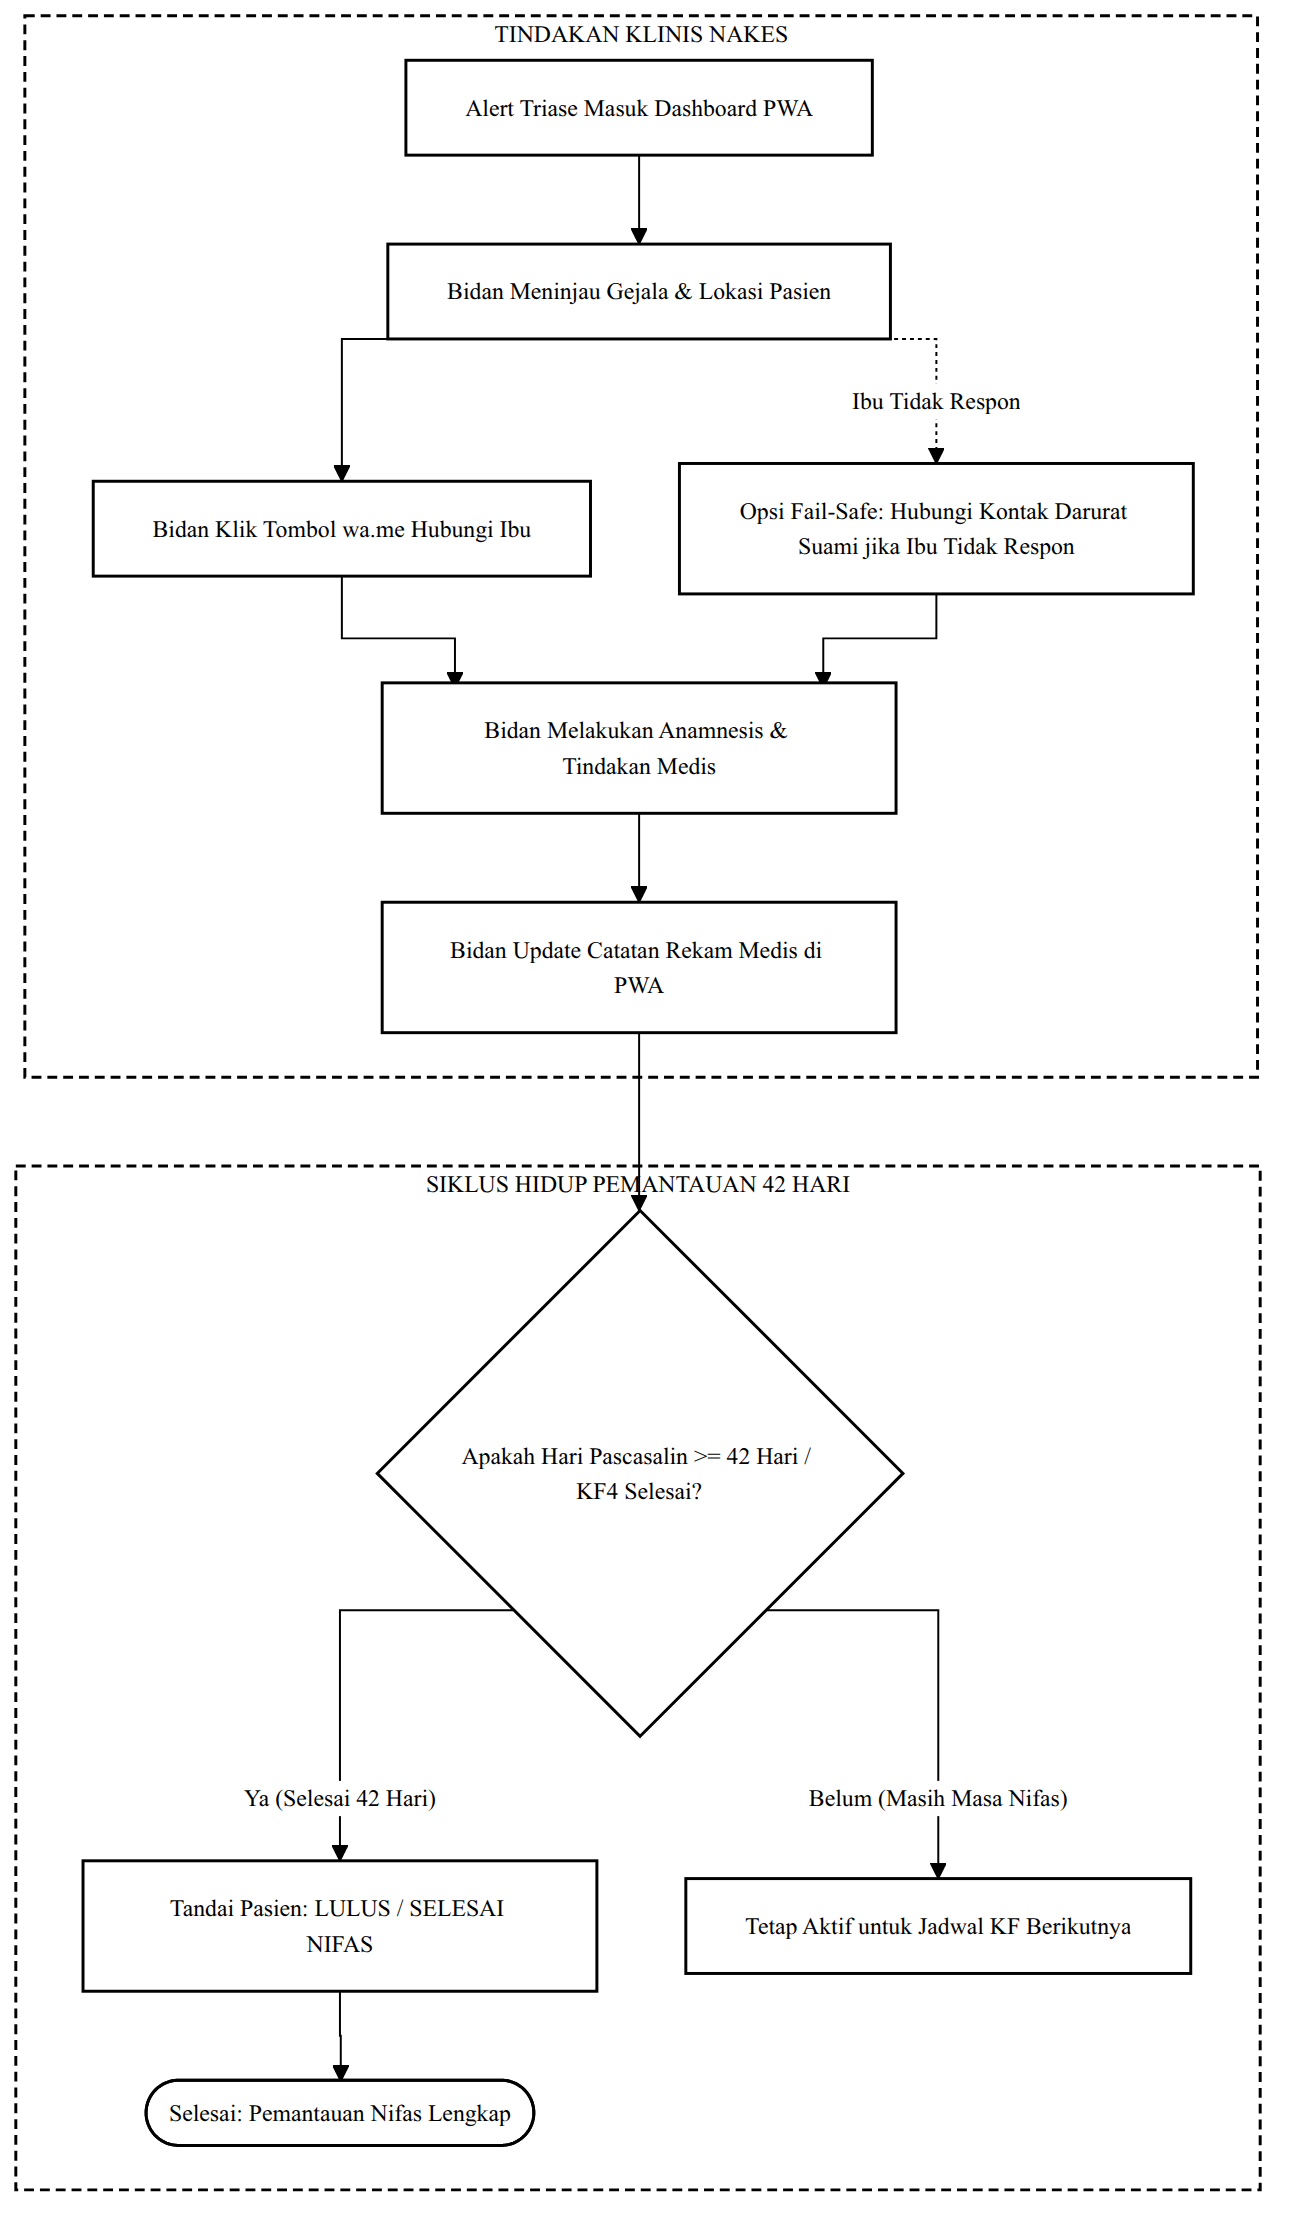
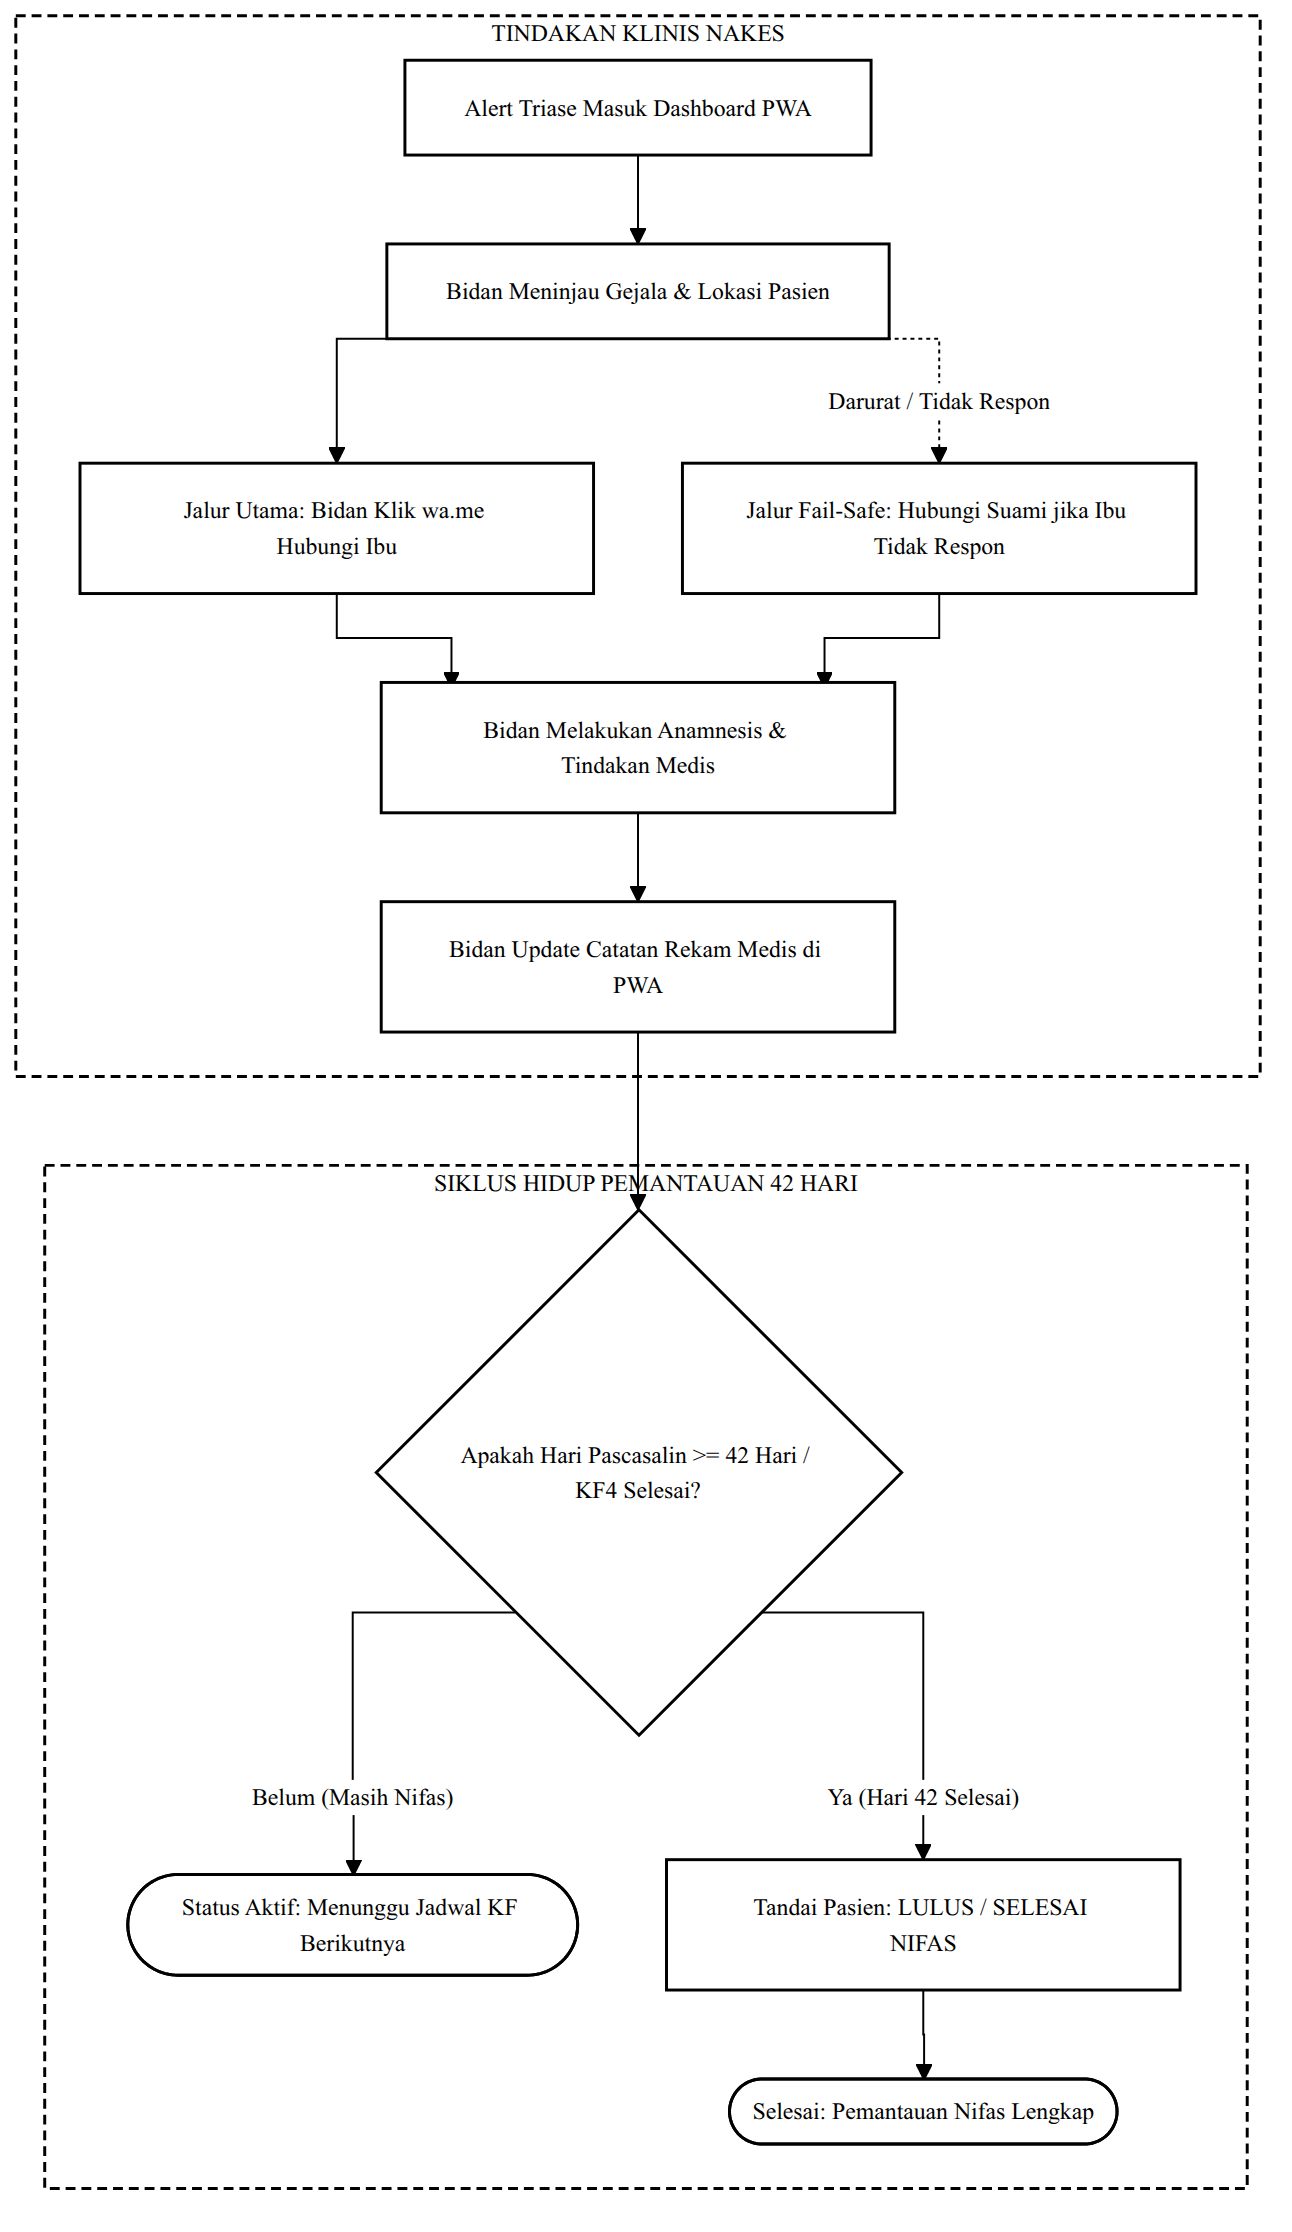
feat(docs): update flowcharts for symmetry and minimal turns

diff --git a/tools/report_docs/render_charts.py b/tools/report_docs/render_charts.py
@@ -79,7 +79,7 @@ flowchart TD
         F{"Apakah Ada Jadwal KF Hari Ini?"}
         G[Ambil Data Pasien Jatuh Tempo]
         H[Siapkan Template Pesan Skrining KF]
-        I[Tunggu Jadwal Hari Berikutnya]
+        I([Standby: Menunggu Jadwal Hari Berikutnya])
     end
 
     A --> B
@@ -87,10 +87,9 @@ flowchart TD
     C --> D
     D --> E
     E --> F
-    F -- "Tidak" --> I
-    I --> E
     F -- "Ya" --> G
     G --> H
+    F -- "Tidak" --> I
 """,
     "flowchart_2_triage": """%%{init: {"flowchart": {"curve": "stepAfter", "htmlLabels": true}} }%%
 flowchart TD
@@ -103,14 +102,13 @@ flowchart TD
 
     subgraph TRIASE ["EVALUASI TRIASE & LOGIKA MEDIS"]
         M[Ekstraksi Jawaban Skrining Ibu]
-        N{"Apakah Ditemukan Tanda Bahaya / Keluhan?"}
-        O[Tetapkan Status HIJAU: Normal / Aman]
-        P[Kirim Pesan Edukasi Perawatan Nifas & ASI]
-        Q{"Tingkat Keparahan Keluhan?"}
-        R[Tetapkan Status KUNING: Perlu Evaluasi]
-        S[Tetapkan Status MERAH: Bahaya Akut]
-        T[/Kirim Pesan Darurat & Kontak Bidan PJ ke WA Ibu/]
-        U[/Kirim Alert Prioritas ke Dashboard PWA Bidan/]
+        N{"Hasil Skrining Gejala Sesuai Buku KIA?"}
+        O[Status HIJAU: Normal / Aman]
+        P[/Kirim Pesan Edukasi Perawatan Nifas & ASI/]
+        R[Status KUNING: Keluhan Sedang]
+        U1[/Kirim Kontak Bidan PJ & Alert Pantauan ke PWA/]
+        S[Status MERAH: Bahaya Akut]
+        U2[/Kirim Pesan Darurat & Alert Prioritas Merah/]
     end
 
     H --> J
@@ -118,42 +116,44 @@ flowchart TD
     K --> L
     L --> M
     M --> N
-    N -- "Tidak Ada Keluhan" --> O
+
+    N -- "Normal" --> O
     O --> P
-    N -- "Ada Keluhan" --> Q
-    Q -- "Keluhan Ringan/Sedang" --> R
-    Q -- "Gejala Bahaya / Red Flag" --> S
-    R --> T
-    S --> T
-    T --> U
+
+    N -- "Waspada" --> R
+    R --> U1
+
+    N -- "Bahaya" --> S
+    S --> U2
 """,
     "flowchart_3_intervention": """%%{init: {"flowchart": {"curve": "stepAfter", "htmlLabels": true}} }%%
 flowchart TD
     subgraph INTERVENSI ["TINDAKAN KLINIS NAKES"]
         U[Alert Triase Masuk Dashboard PWA]
         V[Bidan Meninjau Gejala & Lokasi Pasien]
-        W[Bidan Klik Tombol wa.me Hubungi Ibu]
-        W2[Opsi Fail-Safe: Hubungi Kontak Darurat Suami jika Ibu Tidak Respon]
+        W[Jalur Utama: Bidan Klik wa.me Hubungi Ibu]
+        W2[Jalur Fail-Safe: Hubungi Suami jika Ibu Tidak Respon]
         X[Bidan Melakukan Anamnesis & Tindakan Medis]
         Y[Bidan Update Catatan Rekam Medis di PWA]
     end
 
     subgraph SIKLUS ["SIKLUS HIDUP PEMANTAUAN 42 HARI"]
         Z{"Apakah Hari Pascasalin >= 42 Hari / KF4 Selesai?"}
+        AC([Status Aktif: Menunggu Jadwal KF Berikutnya])
         AA[Tandai Pasien: LULUS / SELESAI NIFAS]
         AB([Selesai: Pemantauan Nifas Lengkap])
-        AC[Tetap Aktif untuk Jadwal KF Berikutnya]
     end
 
     U --> V
     V --> W
-    V -. "Ibu Tidak Respon" .-> W2
+    V -. "Darurat / Tidak Respon" .-> W2
     W --> X
     W2 --> X
     X --> Y
     Y --> Z
-    Z -- "Belum (Masih Masa Nifas)" --> AC
-    Z -- "Ya (Selesai 42 Hari)" --> AA
+
+    Z -- "Belum (Masih Nifas)" --> AC
+    Z -- "Ya (Hari 42 Selesai)" --> AA
     AA --> AB
 """
 }
@@ -165,7 +165,7 @@ def render_all_charts(output_dir: Path):
         tmp_path = Path(tmpdir)
         cfg_file = tmp_path / "mermaid_config.json"
         css_file = tmp_path / "mermaid_style.css"
-        
+
         cfg_file.write_text(json.dumps(DRAWIO_CONFIG), encoding="utf-8")
         css_file.write_text(DRAWIO_CSS, encoding="utf-8")
 
